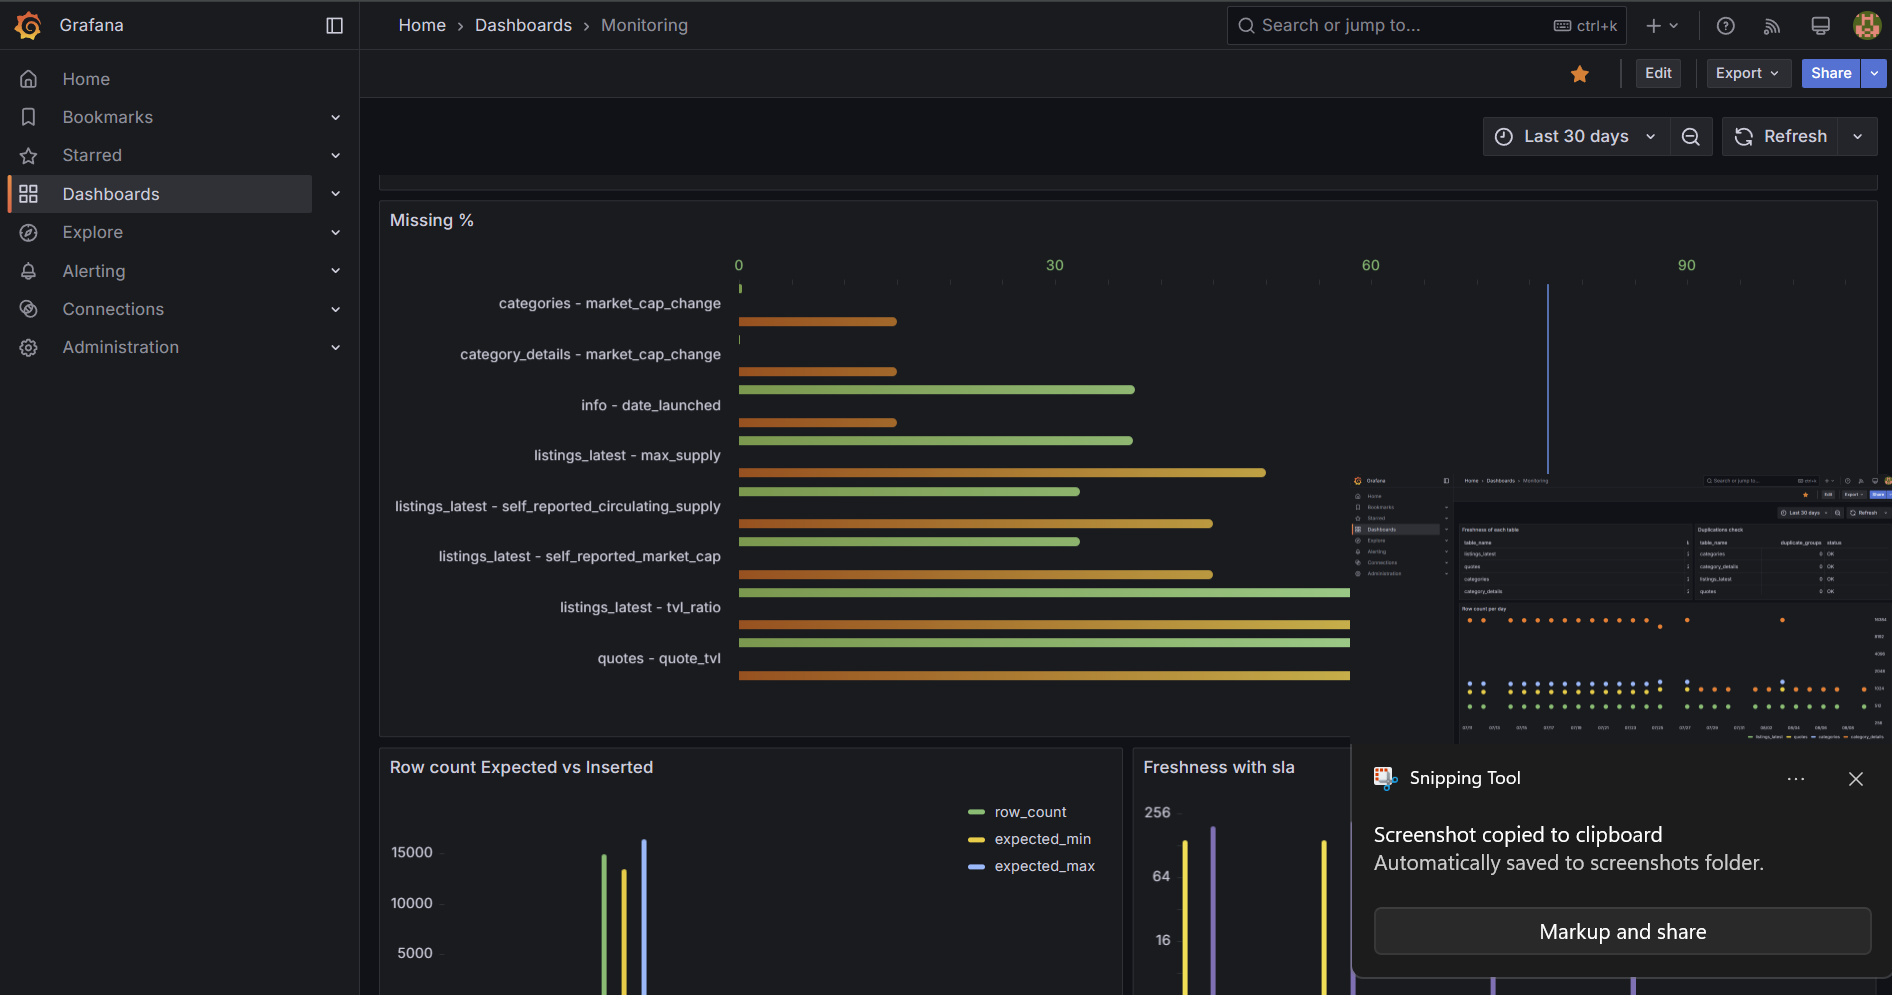
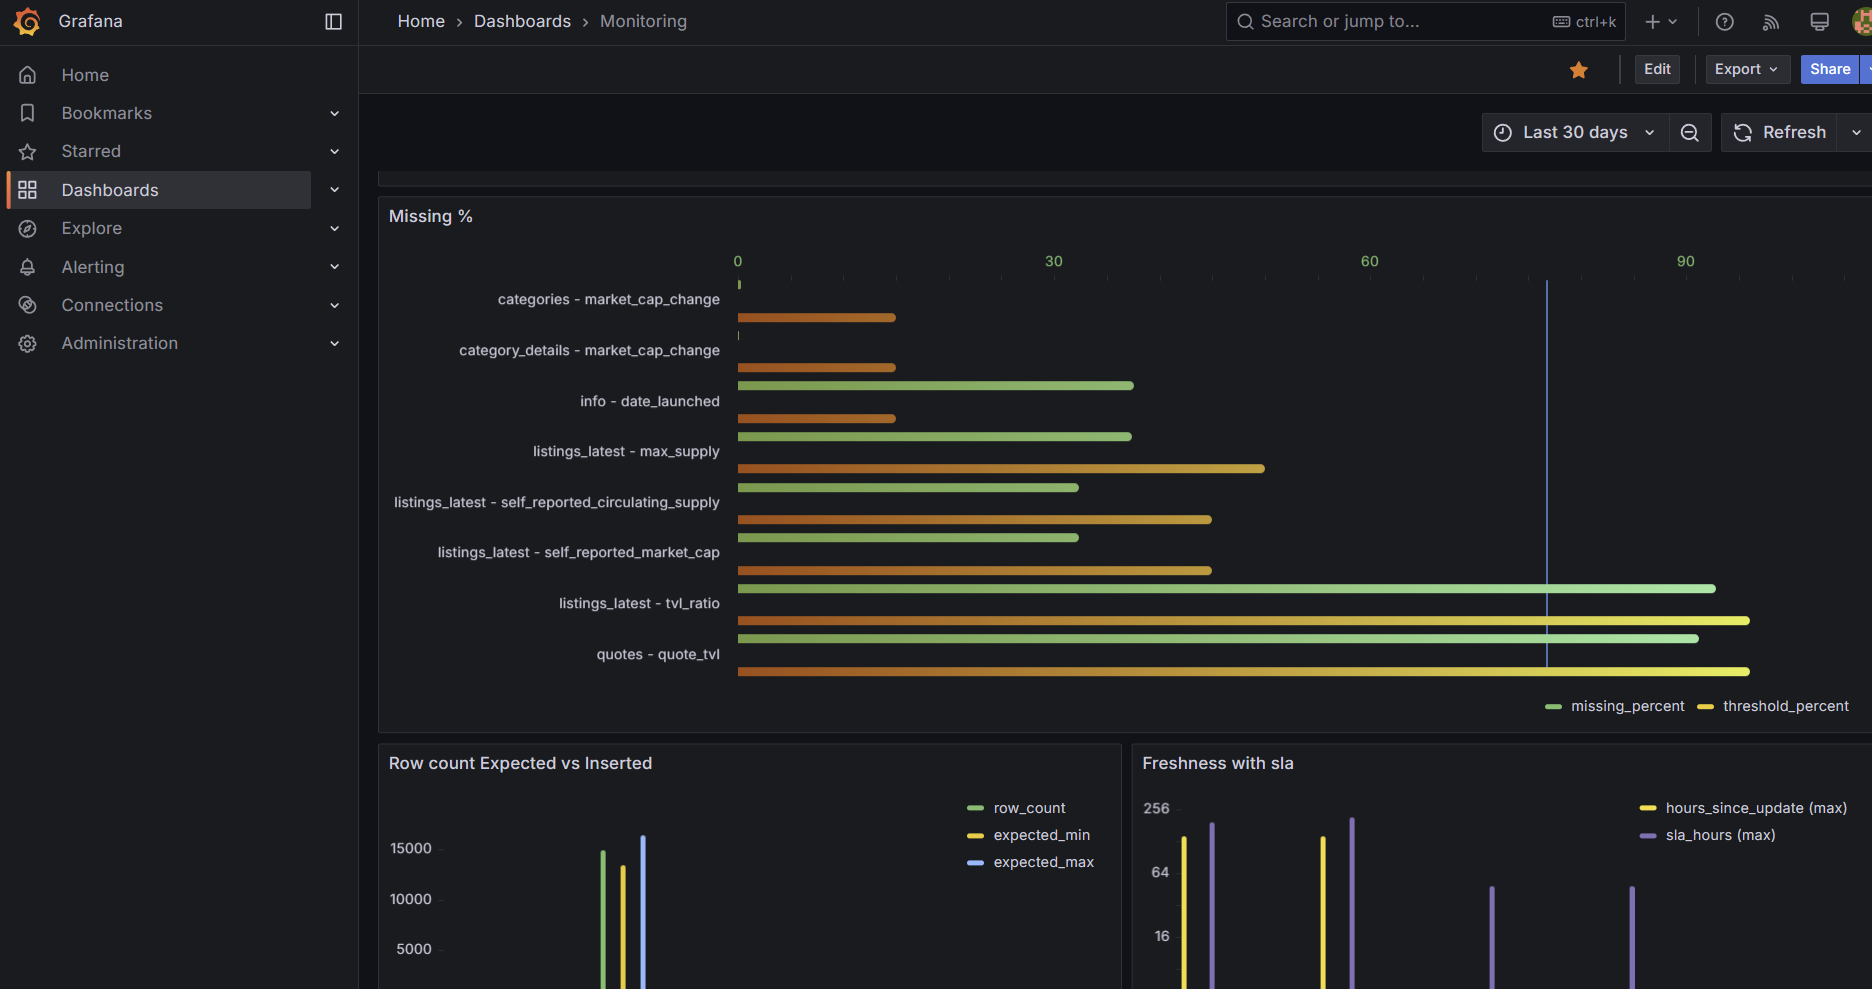
docs: retake screenshots without the notification overlay, move diagrams under docs/screenshots

diff --git a/README.md b/README.md
@@ -8,7 +8,7 @@
 
 An end-to-end **ELT data platform** that ingests cryptocurrency market data from the [CoinMarketCap Pro API](https://coinmarketcap.com/api/), lands it in a PostgreSQL data warehouse following the **medallion architecture**, models it into a **star schema with dbt**, validates it with **Soda**, and serves it through **Apache Superset** dashboards — all orchestrated by **Apache Airflow** and fully containerized with **Docker Compose**. Deployed on a Linux (Ubuntu) VPS with a **GitHub Actions CI/CD** pipeline.
 
-![Overall Architecture](cmc_overall_architecture.png)
+![Overall Architecture](docs/screenshots/cmc_overall_architecture.png)
 
 ---
 
@@ -112,7 +112,7 @@ A single `Monitoring` dashboard fed by the warehouse itself — every panel is a
 
 Detailed ELT process view:
 
-![ELT Process](cmc_elt_architecture_diagram.png)
+![ELT Process](docs/screenshots/cmc_elt_architecture_diagram.png)
 
 **Runtime (all in Docker Compose):**
 
@@ -153,7 +153,7 @@ Setup DAGs (`create_schemas_dag`, `create_staging_tables_dag`) provision the war
 
 ## Warehouse Modeling
 
-![DWH Model](cmc_dwh_modeling_diagram.png)
+![DWH Model](docs/screenshots/cmc_dwh_modeling_diagram.png)
 
 dbt models flow through three internal stages:
 

diff --git a/docs/screenshots/README.md b/docs/screenshots/README.md
@@ -20,6 +20,14 @@ matching row to the Screenshots section of the root `README.md`.
 | `ci-01-github-actions-ci.png` | Green CI workflow runs |
 | `ci-02-github-actions-cd.png` | Green CD (deploy to server) workflow runs |
 
+Architecture diagrams (not screenshots, but referenced from the same folder):
+
+| File | What it shows |
+|---|---|
+| `cmc_overall_architecture.png` | End-to-end system architecture |
+| `cmc_elt_architecture_diagram.png` | ELT flow: API → JSON → CSV → staging → dbt marts |
+| `cmc_dwh_modeling_diagram.png` | Warehouse star-schema model |
+
 Take these **while the VPS is still running** — once it is decommissioned the
 live UIs are gone, but the screenshots keep the project presentable.
 
